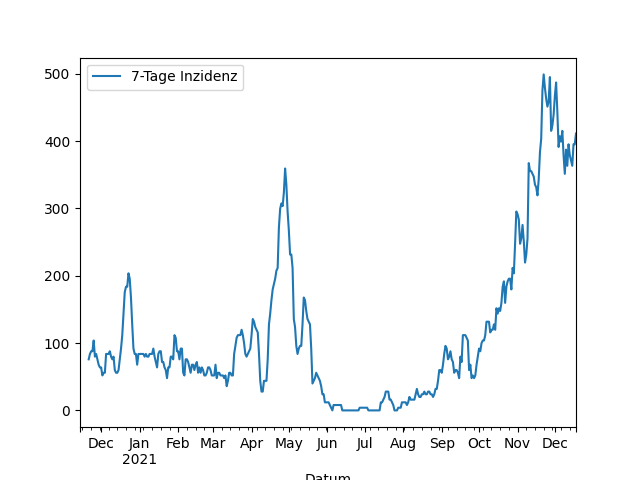
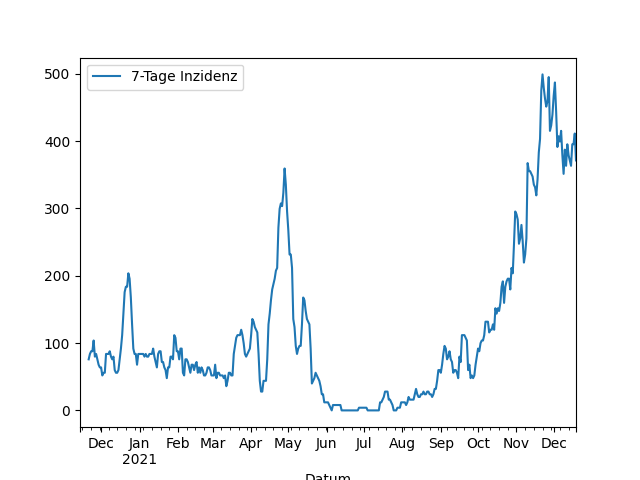
Update images

diff --git a/_includes/aktuelle_inzidenz.md b/_includes/aktuelle_inzidenz.md
@@ -1,1 +1,1 @@
-411,1
+371,2
